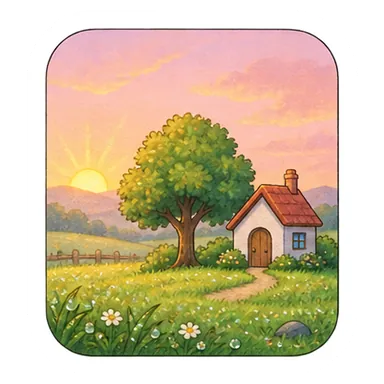
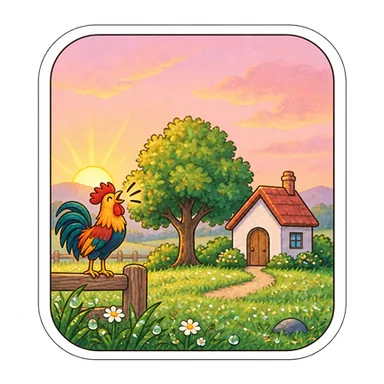
Sticker variants drawn at random; the morning card has a crowing rooster
warianty.js: 17 stickers have two more versions (an apple stays red, the
ball and the block red, the mug blue, animals face left), object() picks
one and keeps the base name; `plik` forces one where two things must match
(a shadow and its sticker, the ears behind the bush). The manager shows the
variants on their base sticker's card instead of as unused stickers. A
sheet may take reference stickers (`refs`).

diff --git a/game/engine/scene.js b/game/engine/scene.js
@@ -6,6 +6,7 @@
 // x in [-6, 6], y in [-4.5, 4.5], ground at GROUND. ?safe draws the rectangle.
 
 import * as THREE from "three";
+import { losuj, warianty } from "./warianty.js";
 import { v } from "./v.js";
 import { Lalka } from "./lalka.js";
 import { Sfx } from "./sfx.js";
@@ -230,7 +231,7 @@ export class Stage {
   // everything a lesson will show, loaded and sent to the GPU before it starts (a loading screen is fine; a stutter
   // in a transition is not): its sceneries, stickers, garments, the transitions' bands, the characters
   async prepare({ tla = [], obiekty = [], ubrania = [] } = {}, postep = () => {}) {
-    const zadania = [...tla.map((n) => () => this.tlo(n)), ...obiekty.map((n) => () => texture(`/game/assets/objects/${n}.webp`).catch(() => null)), () => U.wczytajUbrania(ubrania)];
+    const zadania = [...tla.map((n) => () => this.tlo(n)), ...obiekty.flatMap(warianty).map((n) => () => texture(`/game/assets/objects/${n}.webp`).catch(() => null)), () => U.wczytajUbrania(ubrania)];
     let zrobione = 0;
     for (const z of zadania) { await z(); postep(++zrobione / (zadania.length + 1)); }
     E.przygotujGlowy(this);                                          // the transitions' head badges, with faces
@@ -363,7 +364,8 @@ export class Stage {
   // a sticker: the icon with its baked white die-cut outline, so a green pear reads on green grass
   // obraz: a picture of its own (a data: URL made in the page, e.g. the friends' heads) instead of objects/<name>.webp
   // dzwiek: the thing's own sound (an instrument), heard when it is pointed at and when its row plays (rytm.js)
-  async object(name, { x = 0, y = 1.2, size = 1.1, sticker = false, z = 0.4, label = null, obraz = null, dzwiek = null, cicho = false } = {}) {
+  async object(name, { x = 0, y = 1.2, size = 1.1, sticker = false, z = 0.4, label = null, obraz = null, dzwiek = null, cicho = false, plik = null } = {}) {
+    plik = obraz ? null : plik || losuj(name);                       // which variant's file (warianty.js); `plik` forces one
     const g = new THREE.Group(); g.position.set(x, y, z);
     if (sticker) {
       const c = document.createElement("canvas"); c.width = c.height = 512; const ctx = c.getContext("2d");
@@ -372,13 +374,13 @@ export class Stage {
       const m = new THREE.Mesh(new THREE.PlaneGeometry(1.18, 1.18), new THREE.MeshBasicMaterial({ map: t, transparent: true, depthWrite: false }));
       m.position.z = -0.01; g.add(m);
     }
-    const mapa = await texture(obraz || `/game/assets/objects/${name}.webp`), iw = mapa.image.width, ih = mapa.image.height;
+    const mapa = await texture(obraz || `/game/assets/objects/${plik}.webp`), iw = mapa.image.width, ih = mapa.image.height;
     // a non-square picture (a garment) keeps its proportions inside the unit square
     const icon = new THREE.Mesh(new THREE.PlaneGeometry(iw >= ih ? 1 : iw / ih, iw >= ih ? ih / iw : 1), new THREE.MeshBasicMaterial({ map: mapa, transparent: true, alphaTest: 0.05, depthWrite: false }));
     g.add(icon);
     if (label) g.add(this.textMesh(label, { y: -0.72, size: 0.32 }));
     g.traverse((o) => { if (o.isMesh) o.renderOrder = 10; });                 // the foreground draws after every background prop
-    const handle = { mesh: g, icon, name, base: size, size0: size, home: { x, y }, zone: null, kind: "object", pulse: false, dzwiek,
+    const handle = { mesh: g, icon, name, plik, base: size, size0: size, home: { x, y }, zone: null, kind: "object", pulse: false, dzwiek,
       remove: () => { this.scene.remove(g); this.objects.splice(this.objects.indexOf(handle), 1); this.untarget(handle); if (handle.zone) handle.zone.take(handle, false); },
       highlight: (on) => { handle.pulse = on; if (!on) g.scale.setScalar(handle.base); },
       moveTo: (nx, ny, d = 0.5) => { const x0 = g.position.x, y0 = g.position.y; if (Math.hypot(nx - x0, ny - y0) > 2.5) this.sfx.graj("whoosh", { glosnosc: 0.7 }); E.smuga(this, x0, y0, nx, ny, d); return this.tween(d, (s) => { g.position.x = x0 + (nx - x0) * s; g.position.y = y0 + (ny - y0) * s; }); } };

diff --git a/manager/obiekty.html b/manager/obiekty.html
@@ -14,6 +14,8 @@
   .nazwa { font-weight: 600; margin-top: 6px; word-break: break-all; }
   .wym { color: #888; font-size: 12px; }
   .nieuzywana { opacity: .55; }
+  .warianty { display: flex; gap: 4px; justify-content: center; flex-wrap: wrap; margin-top: 4px; }
+  .warianty img { height: 40px; background: #3a3a3a; border-radius: 4px; }
   h2 { font-size: 15px; color: #ffb347; text-transform: uppercase; letter-spacing: .04em; margin: 18px 0 8px; }
 </style>
 </head>
@@ -23,6 +25,7 @@
 <h2>Ubrania (game/assets/ubrania)</h2><div class="siatka" id="ubrania"></div></main>
 <script type="module">
 import { lekcje, katalog, json, uzywa, esc, STYL } from "./dane.js";
+import { warianty, bazowa } from "/game/engine/warianty.js";
 document.getElementById("styl").textContent = STYL;
 const L = await lekcje();
 const karta = (nazwa, src, kto, extra = "") => `<div class="rzecz ${kto.length ? "" : "nieuzywana"}" data-szukaj="${esc((nazwa + " " + kto.map((l) => l.id + " " + l.title.pl).join(" ")).toLowerCase())}" data-uzyta="${kto.length ? 1 : 0}">
@@ -30,7 +33,9 @@ const karta = (nazwa, src, kto, extra = "") => `<div class="rzecz ${kto.length ?
   <div class="nazwa">${esc(nazwa)}</div><div class="wym"></div>${extra}
   <div>${kto.length ? kto.map((l) => `<span class="chip">${esc(l.title.pl)}</span>`).join("") : '<span class="chip">nieużywana</span>'}</div></div>`;
 const pliki = (await katalog("/game/assets/objects/")).filter((n) => n.endsWith(".webp")).map((n) => n.slice(0, -5)).filter((n) => !n.startsWith("ikona_"));
-document.getElementById("naklejki").innerHTML = pliki.map((n) => karta(n, `/game/assets/objects/${n}.webp`, uzywa(L, n, "objects"))).join("");
+// a variant is shown on its base sticker's card (the stage draws one of them at random), not as an unused sticker of its own
+const zWariantami = (n) => { const w = warianty(n).slice(1).filter((v) => pliki.includes(v)); return w.length ? `<div class="warianty">${w.map((v) => `<img src="/game/assets/objects/${v}.webp" title="${esc(v)}" alt="">`).join("")}<div class="wym">+ ${w.length} ${w.length === 1 ? "wariant" : "warianty"} losowane</div></div>` : ""; };
+document.getElementById("naklejki").innerHTML = pliki.filter((n) => !bazowa(n)).map((n) => karta(n, `/game/assets/objects/${n}.webp`, uzywa(L, n, "objects"), zWariantami(n))).join("");
 const G = await json("/game/assets/ubrania/ubrania.json") || {};
 document.getElementById("ubrania").innerHTML = Object.entries(G).map(([n, d]) => karta(n, `/game/assets/ubrania/${d.widoki?.przod || Object.values(d.widoki || {})[0]}`, uzywa(L, n, "ubrania"), `<div class="wym">${esc(d.slot)} · ${Object.keys(d.widoki || {}).join(", ")}</div>`)).join("");
 document.getElementById("status").textContent = `${pliki.length} naklejek, ${Object.keys(G).length} ubrań`;

diff --git a/game/engine/warianty.js b/game/engine/warianty.js
@@ -1,0 +1,13 @@
+// Sticker variants: a lesson asks for "jablko" and the stage draws one of jablko, jablko_2, jablko_3 at random, so a
+// row of apples is not ten copies of one. The handle keeps the base name (lessons find things by name). A variant keeps
+// what stories name - an apple stays red, a hedgehog faces left (queues face their front on the left). Memory cards and
+// symmetry halves load the base file: there two things must look the same.
+export const WARIANTY = {
+  jablko: 3, gruszka: 3, klocek: 3, kubek: 3, zoledz: 3, szyszka: 3, pilka: 3, jez: 3, but: 3, kaczatko_stoi: 3, krzak: 3,
+  kwiatek: 3, misiu: 3, skarpetka: 3, talerz: 3, zajac: 3, grzyb: 3,
+};
+// every file of a sticker: the base first
+export const warianty = (name) => [name, ...Array.from({ length: (WARIANTY[name] || 1) - 1 }, (_, i) => `${name}_${i + 2}`)];
+export const losuj = (name) => { const w = warianty(name); return w[Math.floor(Math.random() * w.length)]; };
+// "jablko_2" -> "jablko" (a file that is a variant of a base sticker), else null
+export const bazowa = (plik) => { const m = /^(.*)_(\d+)$/.exec(plik); return m && WARIANTY[m[1]] && +m[2] <= WARIANTY[m[1]] ? m[1] : null; };

diff --git a/manager/mechaniki.html b/manager/mechaniki.html
@@ -17,7 +17,7 @@
   window.__T = Date.now();
   (() => {
     const im = { imports: { three: "https://cdn.jsdelivr.net/npm/three@0.169.0/build/three.module.js", "three/addons/": "https://cdn.jsdelivr.net/npm/three@0.169.0/examples/jsm/" } };
-    for (const n of ["player", "scene", "lalka", "siatka", "tlo", "olowek", "liczby", "sfx", "speech", "i18n", "v", "geometria", "efekty", "ubior", "odblokuj", "album", "rytm", "mechaniki", "mechaniki2", "mechaniki3"])
+    for (const n of ["player", "scene", "lalka", "siatka", "tlo", "olowek", "liczby", "sfx", "speech", "i18n", "v", "geometria", "efekty", "ubior", "odblokuj", "album", "rytm", "mechaniki", "mechaniki2", "mechaniki3", "warianty"])
       im.imports[`/game/engine/${n}.js`] = `/game/engine/${n}.js?t=${window.__T}`;
     const s = document.createElement("script"); s.type = "importmap"; s.textContent = JSON.stringify(im); document.currentScript.after(s);
   })();

diff --git a/manager/tlo.html b/manager/tlo.html
@@ -17,7 +17,7 @@
   window.__T = Date.now();
   (() => {
     const im = { imports: { three: "https://cdn.jsdelivr.net/npm/three@0.169.0/build/three.module.js", "three/addons/": "https://cdn.jsdelivr.net/npm/three@0.169.0/examples/jsm/" } };
-    for (const n of ["player", "scene", "lalka", "siatka", "tlo", "olowek", "liczby", "sfx", "speech", "i18n", "v", "geometria", "efekty", "ubior", "odblokuj", "album", "rytm", "mechaniki", "mechaniki2", "mechaniki3"])
+    for (const n of ["player", "scene", "lalka", "siatka", "tlo", "olowek", "liczby", "sfx", "speech", "i18n", "v", "geometria", "efekty", "ubior", "odblokuj", "album", "rytm", "mechaniki", "mechaniki2", "mechaniki3", "warianty"])
       im.imports[`/game/engine/${n}.js`] = `/game/engine/${n}.js?t=${window.__T}`;
     const s = document.createElement("script"); s.type = "importmap"; s.textContent = JSON.stringify(im); document.currentScript.after(s);
   })();

diff --git a/game/index.html b/game/index.html
@@ -223,7 +223,7 @@
     const im = { imports: {
       three: "https://cdn.jsdelivr.net/npm/three@0.169.0/build/three.module.js",
       "three/addons/": "https://cdn.jsdelivr.net/npm/three@0.169.0/examples/jsm/" } };
-    for (const n of ["player", "scene", "lalka", "siatka", "tlo", "olowek", "liczby", "sfx", "speech", "i18n", "v", "geometria", "efekty", "ubior", "odblokuj", "album", "rytm", "mechaniki", "mechaniki2", "mechaniki3"])
+    for (const n of ["player", "scene", "lalka", "siatka", "tlo", "olowek", "liczby", "sfx", "speech", "i18n", "v", "geometria", "efekty", "ubior", "odblokuj", "album", "rytm", "mechaniki", "mechaniki2", "mechaniki3", "warianty"])
       im.imports[`/game/engine/${n}.js`] = `/game/engine/${n}.js?t=${window.__T}`;
     const s = document.createElement("script"); s.type = "importmap"; s.textContent = JSON.stringify(im);
     document.currentScript.after(s);

diff --git a/manager/editor.html b/manager/editor.html
@@ -34,7 +34,7 @@
     const im = { imports: {
       three: "https://cdn.jsdelivr.net/npm/three@0.169.0/build/three.module.js",
       "three/addons/": "https://cdn.jsdelivr.net/npm/three@0.169.0/examples/jsm/" } };
-    for (const n of ["player", "scene", "lalka", "siatka", "tlo", "olowek", "liczby", "sfx", "speech", "i18n", "v", "geometria", "efekty", "ubior", "odblokuj", "album", "rytm", "mechaniki", "mechaniki2", "mechaniki3"])
+    for (const n of ["player", "scene", "lalka", "siatka", "tlo", "olowek", "liczby", "sfx", "speech", "i18n", "v", "geometria", "efekty", "ubior", "odblokuj", "album", "rytm", "mechaniki", "mechaniki2", "mechaniki3", "warianty"])
       im.imports[`/game/engine/${n}.js`] = `/game/engine/${n}.js?t=${window.__T}`;
     const s = document.createElement("script"); s.type = "importmap"; s.textContent = JSON.stringify(im);
     document.currentScript.after(s);

diff --git a/game/lessons/front_back/lesson.js b/game/lessons/front_back/lesson.js
@@ -125,8 +125,8 @@ export default {
         {
           const kr = await c.object("krzak", { x: 0, y: 0.9, size: 2.4 });
           const kto = tasuj(["zajac", "jez"])[0];
-          await schowaj(c, kto, kr, { size: 1.6, widac: 0.3 });
-          const op = []; for (const [i, n] of tasuj(["zajac", "jez", "kaczatko_stoi"]).entries()) op.push(await c.object(n, { x: -2.0 + i * 2.0, y: -2.0, size: 1.2 }));
+          const ukryty = await schowaj(c, kto, kr, { size: 1.6, widac: 0.3 });
+          const op = []; for (const [i, n] of tasuj(["zajac", "jez", "kaczatko_stoi"]).entries()) op.push(await c.object(n, { x: -2.0 + i * 2.0, y: -2.0, size: 1.2, plik: n === kto ? ukryty.plik : null }));
           await c.say("mis", "line.p_kto");
           const ok = op.find((h) => h.name === kto);
           dobre(ok); await c.task({ targets: op, correct: ok, wrong: "line.p_kto_nie" });

diff --git a/game/lessons/tangram/lesson.js b/game/lessons/tangram/lesson.js
@@ -42,7 +42,7 @@ async function ozyw(c, t, ruch) {
 async function czyjCien(c, kto, opcje, linia, wrong) {
   const cien = await c.object(kto, { x: EKRAN.x, y: EKRAN.y, size: 2.2 }); c.cien(cien);
   const cele = [];
-  for (const [i, n] of tasuj(opcje).entries()) cele.push(await c.object(n, { x: -1.0 + i * 1.9, y: -2.3, size: 1.3 }));
+  for (const [i, n] of tasuj(opcje).entries()) cele.push(await c.object(n, { x: -1.0 + i * 1.9, y: -2.3, size: 1.3, plik: n === kto ? cien.plik : null }));   // the same variant as the shadow
   await c.say("sowa", linia);
   const ok = cele.find((h) => h.name === kto);
   dobre(ok); await c.task({ targets: cele, correct: ok, wrong });

diff --git a/tools/objects/make_objects.py b/tools/objects/make_objects.py
@@ -561,6 +561,222 @@ Each object fills at most a fifth of the sheet's width; a WIDE empty gap between
 All four roughly the same size.""",
 }
 
+# variants the stage picks from at random (scene.js WARIANTY): an apple stays RED (stories name its colour), a pear
+# stays green-yellow; the originals' references keep the style and size
+SHEETS["warianty_owoce"] = {
+    "outline": True,
+    "names": ["jablko_2", "jablko_3", "gruszka_2", "gruszka_3"],
+    "size": "1536x1024",
+    "rows": 1,
+    "refs": ["jablko", "gruszka"],
+    "prompt": f"""A sprite sheet of FOUR illustrated fruits for a children's picture book, in ONE ROW of 4 on a fully
+TRANSPARENT background, with generous empty space between them so none of them touch. NO coloured background, NO glow,
+NO halo, NO vignette - the space around and between the fruits is completely empty and transparent.
+{STYL}
+The reference images show the game's apple and pear: paint the same style, the same size and the same colours.
+Left to right: one shiny RED apple, a little rounder and wider than the reference, with a short brown stem and TWO
+green leaves; one RED apple, a little taller, with a short stem and NO leaf, a soft yellow blush on one side but red
+overall; one green-yellow pear like the reference but plumper, with a stem and one leaf; one green-yellow pear, slimmer
+and taller, with a curved stem and no leaf.
+All four the same size as the reference fruits.""",
+}
+
+# more variants (scene.js WARIANTY): the block stays RED (grouping puts it with the red things), the mug BLUE, the acorn
+# brown; each keeps the original's size, only its look changes
+SHEETS["warianty_rzeczy"] = {
+    "outline": True,
+    "names": ["klocek_2", "klocek_3", "kubek_2", "kubek_3"],
+    "size": "1536x1024",
+    "rows": 1,
+    "refs": ["klocek", "kubek"],
+    "prompt": f"""A sprite sheet of FOUR illustrated objects for a children's picture book, in ONE ROW of FOUR on a fully
+TRANSPARENT background, with generous empty space between them so none of them touch. NO coloured background, NO glow,
+NO halo, NO vignette - the space around and between the objects is completely empty and transparent.
+{STYL}
+The reference images show the game's own objects: paint the same style, the same size and the same colours.
+Left to right: one RED wooden toy cube like the reference with a small white star painted on its front; one RED wooden
+toy cube like the reference with softly rounded edges and a white dot on its front; one BLUE mug like the reference
+with small white polka dots; one BLUE mug like the reference with a thin white stripe round it.
+All four the same size as the references.""",
+}
+SHEETS["warianty_zoledz"] = {
+    "outline": True,
+    "names": ["zoledz_2", "zoledz_3"],
+    "size": "1536x1024",
+    "rows": 1,
+    "refs": ["zoledz"],
+    "prompt": f"""A sprite sheet of TWO illustrated objects for a children's picture book, in ONE ROW of TWO on a fully
+TRANSPARENT background, with generous empty space between them so none of them touch. NO coloured background, NO glow,
+NO halo, NO vignette - the space around and between the objects is completely empty and transparent.
+{STYL}
+The reference images show the game's own objects: paint the same style, the same size and the same colours.
+Left to right: one brown acorn like the reference but rounder and plumper, its cap tilted a little; one brown acorn
+like the reference but slimmer, with a little stalk on its cap and one small green oak leaf.
+Both the same size as the reference.""",
+}
+
+# the ball stays RED and white (grouping counts it with the red things); the hedgehog keeps facing LEFT (queues face
+# their front on the left)
+SHEETS["warianty_3"] = {
+    "outline": True,
+    "names": ["szyszka_2", "szyszka_3", "pilka_2", "pilka_3"],
+    "size": "1536x1024",
+    "rows": 1,
+    "refs": ["szyszka", "pilka"],
+    "prompt": f"""A sprite sheet of FOUR illustrated objects for a children's picture book, in ONE ROW of FOUR on a fully
+TRANSPARENT background, with generous empty space between them so none of them touch. NO coloured background, NO glow,
+NO halo, NO vignette - the space around and between the objects is completely empty and transparent.
+{STYL}
+The reference images show the game's own objects: paint the same style, the same size and the same colours.
+Left to right: one brown pine cone like the reference but rounder and more open; one brown pine cone like the
+reference but slimmer and longer, with a tiny twig and two pine needles on top; one RED and white beach ball like the
+reference but with white stars on red; one RED and white ball with a single wide white band round its middle.
+All four the same size as the references.""",
+}
+SHEETS["warianty_jez"] = {
+    "outline": True,
+    "names": ["jez_2", "jez_3"],
+    "size": "1536x1024",
+    "rows": 1,
+    "refs": ["jez"],
+    "prompt": f"""A sprite sheet of TWO illustrated objects for a children's picture book, in ONE ROW of TWO on a fully
+TRANSPARENT background, with generous empty space between them so none of them touch. NO coloured background, NO glow,
+NO halo, NO vignette - the space around and between the objects is completely empty and transparent.
+{STYL}
+The reference images show the game's own objects: paint the same style, the same size and the same colours.
+Left to right: the same little hedgehog as the reference, seen from the side FACING LEFT, walking with one front paw
+raised; the same little hedgehog FACING LEFT, sitting up a little, holding a tiny red apple on its back spines.
+Both the same size and colours as the reference hedgehog, both facing LEFT.""",
+}
+
+SHEETS["warianty_but"] = {
+    "outline": True,
+    "names": ["but_2", "but_3"],
+    "size": "1536x1024",
+    "rows": 1,
+    "refs": ["but"],
+    "prompt": f"""A sprite sheet of TWO illustrated objects for a children's picture book, in ONE ROW of 2 on a fully
+TRANSPARENT background, with generous empty space between them so none of them touch. NO coloured background, NO glow,
+NO halo, NO vignette - the space around and between the objects is completely empty and transparent.
+{STYL}
+The reference image shows the game's own shoe: paint the same style, the same size and the same colour.
+Left to right: one RED child's sneaker with white laces and a white sole, seen from the side, toe to the left like the
+reference; one RED child's ankle boot with two buttons, seen from the side, toe to the left.
+Both the same size as the reference.""",
+}
+
+SHEETS["warianty_4"] = {
+    "outline": True,
+    "names": ["kaczatko_stoi_2", "kaczatko_stoi_3", "krzak_2", "krzak_3"],
+    "size": "1536x1024",
+    "rows": 1,
+    "refs": ["kaczatko_stoi", "krzak"],
+    "prompt": f"""A sprite sheet of FOUR illustrated objects for a children's picture book, in ONE ROW of 4 on a fully
+TRANSPARENT background, with generous empty space between them so none of them touch. NO coloured background, NO glow,
+NO halo, NO vignette - the space around and between the objects is completely empty and transparent.
+{STYL}
+The reference images show the game's own duckling and bush: paint the same style, the same size and the same colours.
+Left to right: the same yellow duckling standing, seen from the side FACING LEFT, flapping its little wings; the same
+yellow duckling FACING LEFT, one foot lifted as if walking; one round green bush like the reference with a few tiny
+white flowers; one green bush like the reference, a little wider and lower, with a few red berries.
+All four the same size as the references; the ducklings face LEFT.""",
+}
+
+# the flower may change colour (no story names it), the teddy stays brown, the sock orange and striped, the plate
+# ROUND (it is a circle in the shapes lesson), the bunny faces LEFT
+SHEETS["warianty_5"] = {
+    "outline": True,
+    "names": ['kwiatek_2', 'kwiatek_3', 'misiu_2', 'misiu_3'],
+    "size": "1536x1024",
+    "rows": 1,
+    "refs": ['kwiatek', 'misiu'],
+    "prompt": f"""A sprite sheet of FOUR illustrated objects for a children's picture book, in ONE ROW of 4 on a fully
+TRANSPARENT background, with generous empty space between them so none of them touch. NO coloured background, NO glow,
+NO halo, NO vignette - the space around and between the objects is completely empty and transparent.
+{STYL}
+The reference images show the game's own objects: paint the same style and the same size.
+Left to right: one round daisy-like flower head like the reference but YELLOW petals with an orange centre; one
+round flower head like the reference but LIGHT PURPLE petals with a yellow centre; the same brown teddy bear as the
+reference sitting, with a red bow at its neck; the same brown teddy bear standing, waving one paw.
+All the same size as the references.""",
+}
+SHEETS["warianty_6"] = {
+    "outline": True,
+    "names": ['skarpetka_2', 'skarpetka_3', 'talerz_2', 'talerz_3'],
+    "size": "1536x1024",
+    "rows": 1,
+    "refs": ['skarpetka', 'talerz'],
+    "prompt": f"""A sprite sheet of FOUR illustrated objects for a children's picture book, in ONE ROW of 4 on a fully
+TRANSPARENT background, with generous empty space between them so none of them touch. NO coloured background, NO glow,
+NO halo, NO vignette - the space around and between the objects is completely empty and transparent.
+{STYL}
+The reference images show the game's own objects: paint the same style and the same size.
+Left to right: one ORANGE sock like the reference with white polka dots instead of stripes; one ORANGE sock with thin white
+stripes and a white heel and toe; one ROUND white plate seen from above like the reference with a green rim; one ROUND
+white plate seen from above with a red rim and little dots.
+All the same size as the references.""",
+}
+SHEETS["warianty_zajac"] = {
+    "outline": True,
+    "names": ['zajac_2', 'zajac_3'],
+    "size": "1536x1024",
+    "rows": 1,
+    "refs": ['zajac'],
+    "prompt": f"""A sprite sheet of TWO illustrated objects for a children's picture book, in ONE ROW of 2 on a fully
+TRANSPARENT background, with generous empty space between them so none of them touch. NO coloured background, NO glow,
+NO halo, NO vignette - the space around and between the objects is completely empty and transparent.
+{STYL}
+The reference images show the game's own objects: paint the same style and the same size.
+Left to right: the same grey-brown bunny as the reference sitting, seen from the side FACING LEFT, one ear
+flopped down; the same bunny FACING LEFT, hopping, both hind legs stretched back.
+Both face LEFT.
+All the same size as the references.""",
+}
+
+SHEETS["warianty_grzyb"] = {
+    "outline": True,
+    "names": ["grzyb_2", "grzyb_3"],
+    "size": "1536x1024",
+    "rows": 1,
+    "refs": ["grzyb"],
+    "prompt": f"""A sprite sheet of TWO illustrated objects for a children's picture book, in ONE ROW of 2 on a fully
+TRANSPARENT background, with generous empty space between them so none of them touch. NO coloured background, NO glow,
+NO halo, NO vignette - the space around and between the objects is completely empty and transparent.
+{STYL}
+The reference image shows the game's own mushroom (a brown cep): paint the same style and the same size.
+Left to right: a brown-capped cep like the reference but with a wider, flatter cap and a short thick stem; a
+brown-capped cep like the reference but young and round, its cap small and domed, a tiny blade of grass at its foot.
+Both the same size as the reference.""",
+}
+
+# a better bunny variant (a leaping one did not fit a queue or a hiding place) and the morning card with a crowing
+# rooster: a child could not tell the morning from the evening by the sun and the colours alone
+SHEETS["warianty_zajac2"] = {
+    "outline": True,
+    "names": ["zajac_3"],
+    "size": "1024x1024",
+    "rows": 1,
+    "refs": ["zajac"],
+    "prompt": f"""ONE illustrated object for a children's picture book in the middle of a fully TRANSPARENT background.
+NO coloured background, NO glow, NO halo.
+{STYL}
+The reference image shows the game's own bunny: the same grey-brown bunny, the same style and size, SITTING calmly on
+all four paws, seen from the side FACING LEFT, both ears up and a little apart, a small daisy in its mouth.""",
+}
+SHEETS["pora_rano2"] = {
+    "outline": True,
+    "names": ["pora_rano"],
+    "size": "1024x1024",
+    "rows": 1,
+    "refs": ["pora_rano"],
+    "prompt": f"""ONE illustrated card for a children's picture book in the middle of a fully TRANSPARENT background.
+NO glow, NO halo outside the card.
+{STYL}
+Exactly the reference card - the same rounded frame, the same little house, tree, path and pink morning sky with the
+sun rising - with ONE thing added in the front on the left: a proud colourful ROOSTER standing on the fence, beak wide
+open, crowing, with three little curved sound lines coming from its beak. Keep everything else as it is.""",
+}
+
 
 def gen(sheet: str) -> None:
     WORK.mkdir(parents=True, exist_ok=True)
@@ -569,7 +785,8 @@ def gen(sheet: str) -> None:
         print(f"{dst} exists, skipping")
         return
     s = SHEETS[sheet]
-    figgen.generate(s["prompt"], dst, size=s["size"], quality="high", background="transparent")
+    refs = [OUT / f"{n}.webp" for n in s.get("refs", [])] or None       # existing stickers to match (style, size, colour)
+    figgen.generate(s["prompt"], dst, size=s["size"], quality="high", background="transparent", refs=refs)
 
 
 PX = 384             # sticker side in pixels
